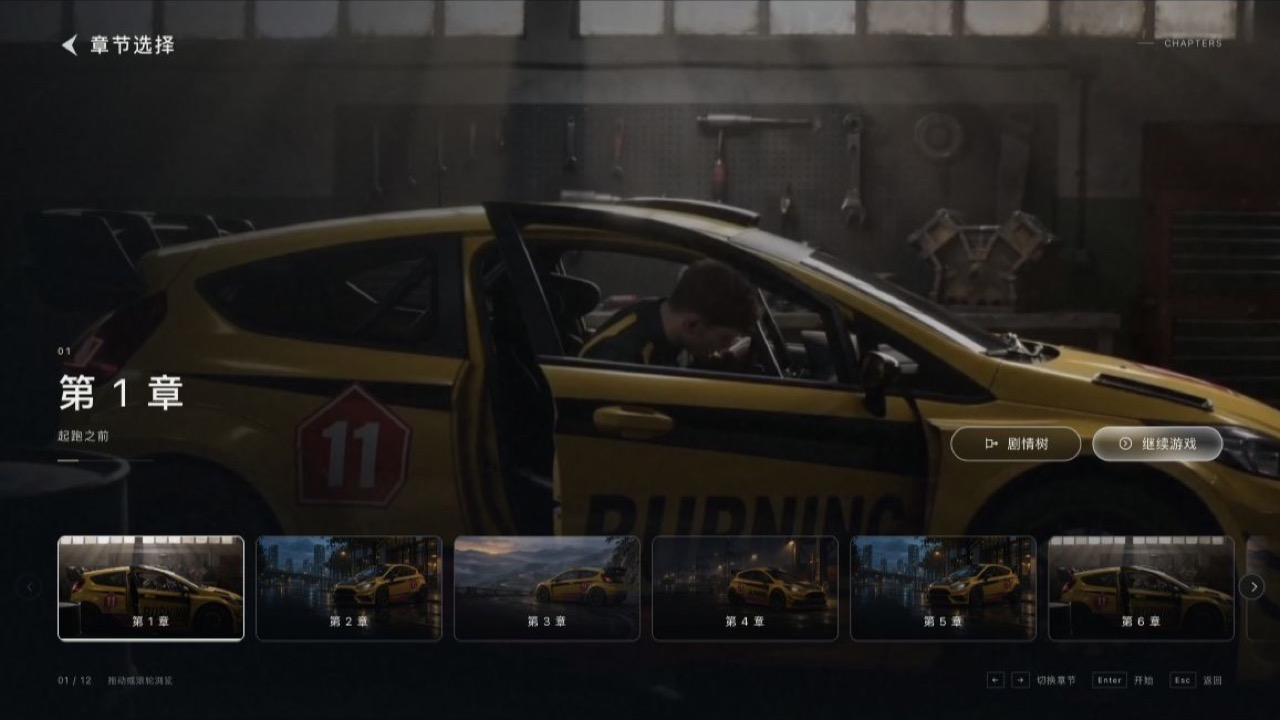
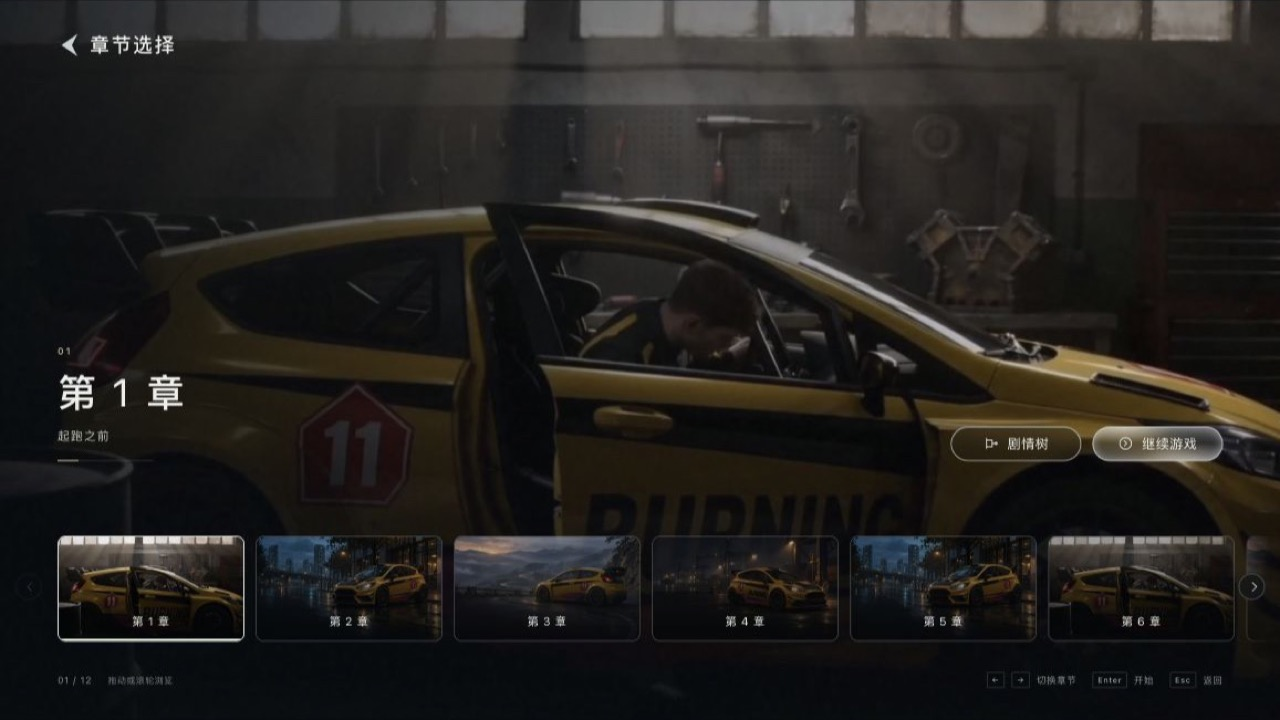
Remove the chapter selection corner caption

diff --git a/compare.html b/compare.html
@@ -1,4 +1,4 @@
-<!doctype html><html lang="zh-CN"><head><meta charset="utf-8"><meta name="viewport" content="width=device-width,initial-scale=1"><title>Yoroll 游戏 UI · 改版对比与比例方案</title><link rel="icon" href="wall/assets/yoroll-icon.svg"><link rel="stylesheet" href="compare.css?v=chapter-low-soft-20261113"></head>
+<!doctype html><html lang="zh-CN"><head><meta charset="utf-8"><meta name="viewport" content="width=device-width,initial-scale=1"><title>Yoroll 游戏 UI · 改版对比与比例方案</title><link rel="icon" href="wall/assets/yoroll-icon.svg"><link rel="stylesheet" href="compare.css?v=chapter-header-clean-20261113"></head>
 <body><header class="report-header"><a class="brand" href="index.html"><img src="assets/yoroll-logo.png" alt="yoroll"></a><div><span>UI / MOTION STUDY</span><h1>更克制的比例，更连贯的节奏。</h1></div><a id="open-prototype" class="primary-link" href="index.html?page=home" target="_blank">打开交互原型 ↗</a></header>
 <div class="scope"><i></i><span>本地交互方案</span><span>14 个页面 / 状态</span><span>16:9 横版</span><span>未修改线上 Unity 游戏</span></div>
 <main class="report-layout"><aside class="page-sidebar"><div class="sidebar-title">逐页对比</div><nav id="page-list"></nav><a href="#proportions">比例调整方案 ↓</a><a href="#handoff">动效与交付说明 ↓</a></aside><article><section class="comparison-section"><div class="page-heading"><div><span id="page-kind" class="eyebrow"></span><h2 id="page-name"></h2></div><div class="page-switch"><button id="prev" aria-label="上一页">←</button><span id="page-count"></span><button id="next" aria-label="下一页">→</button></div></div>
@@ -6,4 +6,4 @@
 <div id="comparison" class="comparison fit-stage" data-mode="wipe"><div class="still-stage"><div class="before-layer"><img id="before-image" alt="修改前截图"><div id="no-before" class="no-before" hidden><span>—</span><h3>没有对应原版截图</h3><p id="before-note"></p></div><span class="picture-label before-label">原版</span></div><div class="after-layer" id="after-layer"><img id="after-image" alt="修改后截图"><span class="picture-label after-label">新版</span></div><div id="wipe-handle" class="wipe-handle"><span>↔</span></div><div class="safe-area" aria-hidden="true"><span>4.5% 水平安全区</span></div></div><div class="motion-stage" hidden><iframe id="motion-frame" title="页面动效预览"></iframe><div class="safe-area" aria-hidden="true"><span>4.5% 水平安全区</span></div></div></div>
 <div id="slider-row" class="slider-row"><span>新版更多</span><input id="wipe-slider" type="range" min="0" max="100" value="50" aria-label="新旧画面分割位置"><span>原版更多</span></div><p id="image-note" class="image-note"></p><div class="change-summary"><div><h3>布局与层级</h3><p id="change"></p></div><div><h3>比例</h3><p id="ratio"></p></div><div><h3>动效与操作</h3><p id="motion"></p><p id="interaction"></p></div></div></section>
 <section id="proportions" class="spec-section"><div class="section-heading"><span class="eyebrow">PROPORTION SYSTEM</span><h2>分别调整层级，建立统一的尺寸体系。</h2><p>以下均以 1920×1080 为设计基准。实际预览按画幅等比缩放，保持 16:9；水平安全区为画面宽度的 4.5%。原版数值来自截图估测。</p></div><div class="table-scroll"><table><thead><tr><th>项目</th><th>原版 · 约</th><th>新版</th><th>变化</th><th>调整目的</th></tr></thead><tbody id="proportion-table"></tbody></table></div><div class="principles"><div><span>01</span><h3>让场景成为主体</h3><p>减少全屏灰白覆盖和重高光。菜单、设置、弹窗用暗色虚化与局部明暗建立前后层次。</p></div><div><span>02</span><h3>控制视觉重量</h3><p>正文、辅助数值、主操作分别定标。保留大结果标题，收紧表单标签与导航控件。</p></div><div><span>03</span><h3>统一反馈语言</h3><p>细描边、短位移、柔和减速。悬停、按下、选中、取消与退出都给出明确回应。</p></div></div></section>
-<section id="handoff" class="spec-section"><div class="section-heading"><span class="eyebrow">MOTION SYSTEM</span><h2>一套进出场节奏，覆盖每个页面。</h2><p>页面退出 150ms，新页标题先入场，内容以 42–70ms 错峰，主体在约 0.8–1.1s 内落位。背景与封面 Logo 使用更长的缓慢收尾。</p></div><div class="motion-grid"><div><h3>常规入场</h3><strong>560–760<span> ms</span></strong><p>缓动 cubic-bezier(.16, 1, .3, 1)<br>上下位移约 8–24px，以设计基准计</p></div><div><h3>背景推近</h3><strong>3.6<span> s</span></strong><p>起止速度与加速度均为零<br>封面 100% → 103.5%，结束后停留</p></div><div><h3>确认弹窗</h3><strong>420<span> ms</span></strong><p>遮罩先淡入，弹窗轻浮落位<br>退出 150ms，取消后恢复焦点</p></div></div><div class="check-row"><span>✓ 页面切换</span><span>✓ 悬停 / 按下</span><span>✓ 键盘操作</span><span>✓ 弹窗焦点</span><span>✓ 减少动态效果适配</span><span>✓ 所有页面可重播</span><span>✓ Hover / 点击 / 切页音效</span></div><div class="file-links"><a href="design-tokens.json" download>下载尺寸与颜色参数</a><a href="motion-spec.json" download>下载逐页动效参数</a><a href="sound-spec.json" download>下载界面音效参数</a><a href="implementation-notes.txt" download>下载落地说明</a><a href="https://preview.game.yoroll.ai/?config=Race&test=1&lang=zh" target="_blank">查看原始预览 ↗</a></div><details open><summary>范围、素材与验证说明</summary><ul id="scope-notes"></ul><p>已检查主菜单、章节与剧情树导航；设置数值与语言下拉；新建存档和确认 / 取消；限时选择暂停计时；选择 → QTE → 结果链路；结果计至 100%。所有页面 / 状态均已保存本地截图。</p></details></section><footer class="report-footer">YOROLL · UI & MOTION EXPLORATION <span>2026.11.11 · 本地方案</span></footer></article></main><script src="report-data.js?v=chapter-low-soft-20261113"></script><script src="compare.js?v=chapter-low-soft-20261113"></script></body></html>
+<section id="handoff" class="spec-section"><div class="section-heading"><span class="eyebrow">MOTION SYSTEM</span><h2>一套进出场节奏，覆盖每个页面。</h2><p>页面退出 150ms，新页标题先入场，内容以 42–70ms 错峰，主体在约 0.8–1.1s 内落位。背景与封面 Logo 使用更长的缓慢收尾。</p></div><div class="motion-grid"><div><h3>常规入场</h3><strong>560–760<span> ms</span></strong><p>缓动 cubic-bezier(.16, 1, .3, 1)<br>上下位移约 8–24px，以设计基准计</p></div><div><h3>背景推近</h3><strong>3.6<span> s</span></strong><p>起止速度与加速度均为零<br>封面 100% → 103.5%，结束后停留</p></div><div><h3>确认弹窗</h3><strong>420<span> ms</span></strong><p>遮罩先淡入，弹窗轻浮落位<br>退出 150ms，取消后恢复焦点</p></div></div><div class="check-row"><span>✓ 页面切换</span><span>✓ 悬停 / 按下</span><span>✓ 键盘操作</span><span>✓ 弹窗焦点</span><span>✓ 减少动态效果适配</span><span>✓ 所有页面可重播</span><span>✓ Hover / 点击 / 切页音效</span></div><div class="file-links"><a href="design-tokens.json" download>下载尺寸与颜色参数</a><a href="motion-spec.json" download>下载逐页动效参数</a><a href="sound-spec.json" download>下载界面音效参数</a><a href="implementation-notes.txt" download>下载落地说明</a><a href="https://preview.game.yoroll.ai/?config=Race&test=1&lang=zh" target="_blank">查看原始预览 ↗</a></div><details open><summary>范围、素材与验证说明</summary><ul id="scope-notes"></ul><p>已检查主菜单、章节与剧情树导航；设置数值与语言下拉；新建存档和确认 / 取消；限时选择暂停计时；选择 → QTE → 结果链路；结果计至 100%。所有页面 / 状态均已保存本地截图。</p></details></section><footer class="report-footer">YOROLL · UI & MOTION EXPLORATION <span>2026.11.11 · 本地方案</span></footer></article></main><script src="report-data.js?v=chapter-header-clean-20261113"></script><script src="compare.js?v=chapter-header-clean-20261113"></script></body></html>

diff --git a/compare.js b/compare.js
@@ -15,7 +15,7 @@ function updatePage(){
  $('#page-kind').textContent=page.kind;
  $('#page-count').textContent=`${String(index+1).padStart(2,'0')} / ${pages.length}`;
  $('#change').textContent=page.change;$('#ratio').textContent=page.ratio;$('#motion').textContent=page.motion;$('#interaction').textContent=page.interaction;
- $('#after-image').src=`comparison/after/${page.id}.jpg?v=chapter-low-soft-20261113`;
+ $('#after-image').src=`comparison/after/${page.id}.jpg?v=chapter-header-clean-20261113`;
  $('#after-image').alt=page.name+'修改后';
  $('#before-image').hidden=!page.before;
  $('#no-before').hidden=Boolean(page.before);
@@ -23,12 +23,12 @@ function updatePage(){
  else $('#before-image').removeAttribute('src');
  $('#before-note').textContent=page.kind==='沿用已定方案'?'沿用本聊天之前已确认的封面构图与素材。':'该状态未在这次线上预览中观察到。新版提供可操作的补充动效示例。';
  $('#image-note').textContent=mode==='motion'?'当前为可操作的实时动效。页面内可以继续导航，点击重播可回到所选页面。':page.before?'原版来自线上实际截图；新版为本地浏览器截图。底图部分不同，对比重点为 UI 占比、层级与位置。':'左侧保留来源说明；右侧展示本轮方案。点击「播放动效」体验完整入场。';
- $('#open-prototype').href=`index.html?page=${page.id}&revision=chapter-low-soft-20261113`;
+ $('#open-prototype').href=`index.html?page=${page.id}&revision=chapter-header-clean-20261113`;
  document.querySelectorAll('[data-page]').forEach(button=>{if(button.dataset.page===page.id)button.setAttribute('aria-current','page');else button.removeAttribute('aria-current');});
  history.replaceState(null,'','#'+page.id);
  if(mode==='motion')loadMotion();
 }
-function loadMotion(){const page=pages[index];$('#motion-frame').src=`index.html?page=${page.id}&capture=1&revision=chapter-low-soft-20261113&replay=${++replay}`;}
+function loadMotion(){const page=pages[index];$('#motion-frame').src=`index.html?page=${page.id}&capture=1&revision=chapter-header-clean-20261113&replay=${++replay}`;}
 function setMode(value){
  mode=value;$('#comparison').dataset.mode=mode;
  document.querySelectorAll('button[data-mode]').forEach(button=>button.setAttribute('aria-pressed',String(button.dataset.mode===mode)));

diff --git a/app.js b/app.js
@@ -149,7 +149,7 @@ function chaptersView(){
   const selected=index===selectedChapter;
   return `<div class="chapter-cell" data-enter="chapter-card"><button class="chapter-card ${selected?'is-selected':''}" data-chapter-index="${index}" aria-pressed="${selected}" tabindex="${selected?0:-1}" aria-label="第 ${number} 章，${chapter.name}"><img src="${chapter.cover}" alt="" draggable="false" style="object-position:${chapter.position}"><span class="card-label">第 ${number} 章</span></button></div>`;
  }).join('');
- return `${pageHeading('章节选择','home','CHAPTERS')}
+ return `${pageHeading('章节选择','home')}
  <div class="chapter-summary"><section class="chapter-info">${chapterInfoMarkup()}</section><div class="chapter-actions"><div data-enter="action">${goButton('剧情树','tree','','tree')}</div><div data-enter="action">${goButton(chapterProgress()>0?'继续游戏':'开始游戏','gameplay','btn-primary','play-circle')}</div></div></div>
  <div class="chapter-strip" aria-label="章节列表">${chapterCards}</div><button class="chapter-rail-arrow chapter-rail-arrow-left" data-action="chapter-scroll-left" aria-label="向左滚动章节">${icon('back')}</button><button class="chapter-rail-arrow chapter-rail-arrow-right" data-action="chapter-scroll-right" aria-label="向右滚动章节">${icon('back')}</button>
  ${footer(`<div class="chapter-browse-meta"><span id="chapter-count">${String(selectedChapter+1).padStart(2,'0')} / ${CHAPTER_PREVIEWS.length}</span><span>拖动或滚轮浏览</span></div>`, '<span><span class="keycap">←</span><span class="keycap">→</span> 切换章节</span><span><span class="keycap">Enter</span> 开始</span><span><span class="keycap">Esc</span> 返回</span>')}<div class="sr-only" id="chapter-announcement" role="status" aria-live="polite"></div>`;

diff --git a/report-data.js b/report-data.js
@@ -46,7 +46,7 @@ window.YOROLL_REPORT = {
       "name": "章节选择",
       "before": "02-chapters.jpg",
       "kind": "原版实拍",
-      "change": "右侧操作按钮与左侧整组章节信息底部对齐，保留已确认的胶囊圆角、玻璃高光和尺寸。章节信息上方仅显示两位序号（01、02…），去掉 CHAPTER 前缀；章节进度只在左侧章节文字下方显示，切换时随章节信息更新；缩略卡片只保留封面与底部居中标题。12 个本地示例章节均可点击。",
+      "change": "右侧操作按钮与左侧整组章节信息底部对齐，保留已确认的胶囊圆角、玻璃高光和尺寸。移除右上角 CHAPTERS 辅助标识与短线；章节信息上方仅显示两位序号（01、02…），去掉 CHAPTER 前缀；章节进度只在左侧章节文字下方显示，切换时随章节信息更新；缩略卡片只保留封面与底部居中标题。12 个本地示例章节均可点击。",
       "ratio": "按钮 336×90px → 196×52px；与左侧信息共用底线。1280×720 预览中，与章节栏间距约 71px；章节卡片 280×158px，以 1920×1080 为基准。",
       "motion": "点击即更新选中框；标题先用 130ms 淡出，再用 460ms 从侧面轻落位；背景 620ms 交叉淡入、1.4s 轻微推近。快速连点以最后一次选择为准。",
       "interaction": "12 个章节均可点击；横向滚动时卡片在两侧逐渐透明淡出，首尾停靠仍完整展示；支持拖动、滚轮、左右按钮和方向键。点选音降低一个八度，削弱明亮泛音，使用低柔、居中的连续尾音；连续切换时旧尾音以 160ms 渐出，减少重叠和回声感。"

diff --git a/index.html b/index.html
@@ -33,6 +33,6 @@
   <script src="ui-sound.js?v=chapter-low-soft-20261113"></script>
   <script src="home-music.js?v=master-mute-20261113"></script>
   <script src="story-tree.js?v=tree-locked-hover-20261113"></script>
-  <script src="app.js?v=chapter-long-tail-20261113"></script>
+  <script src="app.js?v=chapter-header-clean-20261113"></script>
 </body>
 </html>
